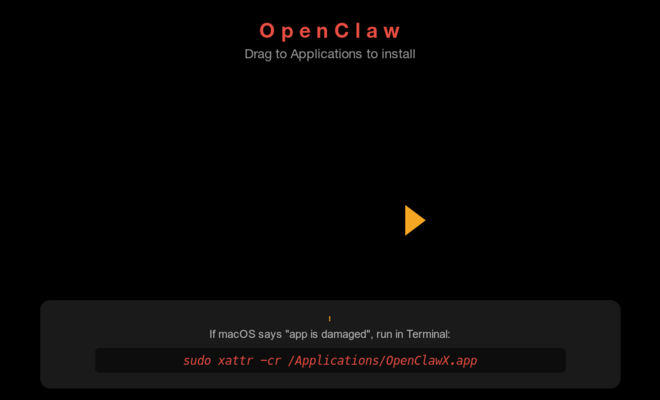
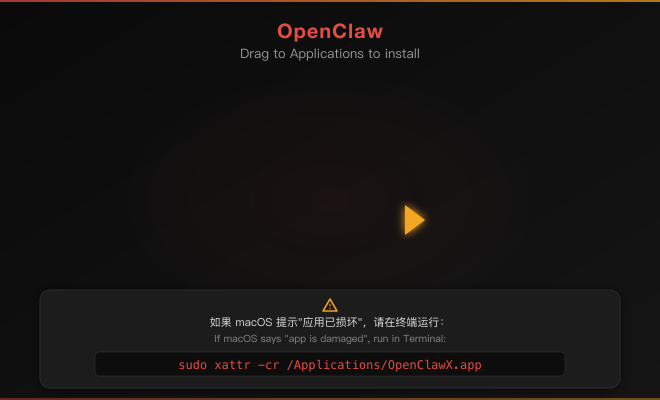
feat: add bilingual DMG install tips and website macOS guide
- DMG background: add Chinese + English bilingual tips for quarantine fix
- Website: add macOS installation guide section with 4-step instructions
- Include copy-to-clipboard button for xattr command

diff --git a/website/style.css b/website/style.css
@@ -1262,6 +1262,140 @@ img { max-width: 100%; display: block; }
   transform: translateY(0);
 }
 
+/* ----- macOS Install Guide ----- */
+.macos-guide {
+  padding: 100px 0;
+  background: var(--color-bg-secondary);
+}
+
+.guide-steps {
+  max-width: 700px;
+  margin: 0 auto;
+  display: flex;
+  flex-direction: column;
+  gap: 0;
+}
+
+.guide-step {
+  display: flex;
+  gap: 20px;
+  padding: 28px 0;
+  border-bottom: 1px solid var(--color-border);
+  transition: all var(--transition-normal);
+}
+
+.guide-step:first-child {
+  padding-top: 0;
+}
+
+.guide-step:last-child {
+  border-bottom: none;
+  padding-bottom: 0;
+}
+
+.guide-step:hover {
+  padding-left: 8px;
+}
+
+.guide-step-number {
+  width: 40px;
+  height: 40px;
+  border-radius: 50%;
+  background: var(--color-primary-light);
+  color: var(--color-primary);
+  font-size: 16px;
+  font-weight: 800;
+  display: flex;
+  align-items: center;
+  justify-content: center;
+  flex-shrink: 0;
+  border: 2px solid rgba(229, 77, 66, 0.3);
+}
+
+.guide-step-content {
+  flex: 1;
+  min-width: 0;
+}
+
+.guide-step-content h3 {
+  font-size: 17px;
+  font-weight: 700;
+  margin-bottom: 8px;
+  line-height: 40px;
+}
+
+.guide-step-content p {
+  font-size: 14px;
+  color: var(--color-text-secondary);
+  line-height: 1.7;
+  margin-bottom: 4px;
+}
+
+.guide-step-content code {
+  font-family: var(--font-mono);
+  font-size: 13px;
+  background: rgba(229, 77, 66, 0.1);
+  color: var(--color-primary);
+  padding: 1px 6px;
+  border-radius: 4px;
+}
+
+.guide-step-content strong {
+  color: var(--color-text);
+  font-weight: 600;
+}
+
+.guide-command {
+  display: flex;
+  align-items: center;
+  gap: 12px;
+  margin: 12px 0;
+  padding: 14px 18px;
+  background: var(--color-bg-card);
+  border: 1px solid var(--color-border);
+  border-radius: var(--radius-md);
+  overflow-x: auto;
+}
+
+.guide-command code {
+  flex: 1;
+  font-family: var(--font-mono);
+  font-size: 14px;
+  color: #FBBF24;
+  background: none;
+  padding: 0;
+  border-radius: 0;
+  user-select: all;
+  white-space: nowrap;
+}
+
+.guide-copy-btn {
+  flex-shrink: 0;
+  padding: 6px 14px;
+  font-size: 12px;
+  font-weight: 600;
+  font-family: var(--font-family);
+  color: var(--color-text-secondary);
+  background: var(--color-bg-elevated);
+  border: 1px solid var(--color-border);
+  border-radius: var(--radius-sm);
+  cursor: pointer;
+  transition: all var(--transition-fast);
+  white-space: nowrap;
+}
+
+.guide-copy-btn:hover {
+  color: var(--color-text);
+  border-color: var(--color-border-light);
+  background: var(--color-bg-card-hover);
+}
+
+.guide-hint {
+  font-size: 13px !important;
+  color: var(--color-text-muted) !important;
+  font-style: italic;
+}
+
 /* ----- Contact Section ----- */
 .contact {
   padding: 80px 0;
@@ -1339,6 +1473,15 @@ img { max-width: 100%; display: block; }
   .download-card h2 { font-size: 28px; }
   .download-buttons { flex-direction: column; align-items: center; }
   .download-btn { width: 100%; max-width: 280px; }
+
+  .macos-guide { padding: 60px 0; }
+  .guide-step { gap: 16px; padding: 20px 0; }
+  .guide-step:hover { padding-left: 0; }
+  .guide-step-number { width: 36px; height: 36px; font-size: 14px; }
+  .guide-step-content h3 { font-size: 15px; line-height: 36px; }
+  .guide-command { flex-direction: column; align-items: stretch; gap: 8px; padding: 12px 14px; }
+  .guide-command code { font-size: 13px; }
+  .guide-copy-btn { align-self: flex-end; }
 
   .contact { padding: 60px 0; }
 

diff --git a/website/index.html b/website/index.html
@@ -601,6 +601,52 @@
       </div>
     </section>
 
+    <!-- macOS Install Guide -->
+    <section class="macos-guide" id="macos-guide">
+      <div class="container">
+        <div class="section-header animate-on-scroll">
+          <span class="section-tag">安装指南</span>
+          <h2>macOS 安装说明</h2>
+          <p>首次在 macOS 上安装？按照以下步骤即可顺利完成</p>
+        </div>
+        <div class="guide-steps animate-on-scroll">
+          <div class="guide-step">
+            <div class="guide-step-number">1</div>
+            <div class="guide-step-content">
+              <h3>下载并打开 DMG 文件</h3>
+              <p>根据你的 Mac 芯片类型（Apple Silicon 或 Intel）下载对应的 <code>.dmg</code> 安装包，双击打开。</p>
+            </div>
+          </div>
+          <div class="guide-step">
+            <div class="guide-step-number">2</div>
+            <div class="guide-step-content">
+              <h3>拖拽到 Applications 文件夹</h3>
+              <p>在弹出的窗口中，将 <strong>OpenClawX</strong> 图标拖拽到右侧的 <strong>Applications</strong> 文件夹即可完成安装。</p>
+            </div>
+          </div>
+          <div class="guide-step">
+            <div class="guide-step-number">3</div>
+            <div class="guide-step-content">
+              <h3>解除安全限制（如提示"应用已损坏"）</h3>
+              <p>由于应用未签名，macOS 可能会阻止打开。请打开<strong>终端</strong>（Terminal），运行以下命令：</p>
+              <div class="guide-command">
+                <code id="macosCommand">sudo xattr -cr /Applications/OpenClawX.app</code>
+                <button class="guide-copy-btn" onclick="navigator.clipboard.writeText('sudo xattr -cr /Applications/OpenClawX.app').then(()=>{this.textContent='已复制';setTimeout(()=>{this.textContent='复制'},2000)})" aria-label="Copy command">复制</button>
+              </div>
+              <p class="guide-hint">输入命令后需要输入你的 Mac 登录密码（输入时不会显示字符，这是正常现象）。</p>
+            </div>
+          </div>
+          <div class="guide-step">
+            <div class="guide-step-number">4</div>
+            <div class="guide-step-content">
+              <h3>重新打开应用</h3>
+              <p>执行完命令后，重新双击 <strong>OpenClawX</strong> 即可正常启动使用。</p>
+            </div>
+          </div>
+        </div>
+      </div>
+    </section>
+
     <!-- OpenClaw Tips CTA -->
     <section class="contact" id="contact">
       <div class="container">
